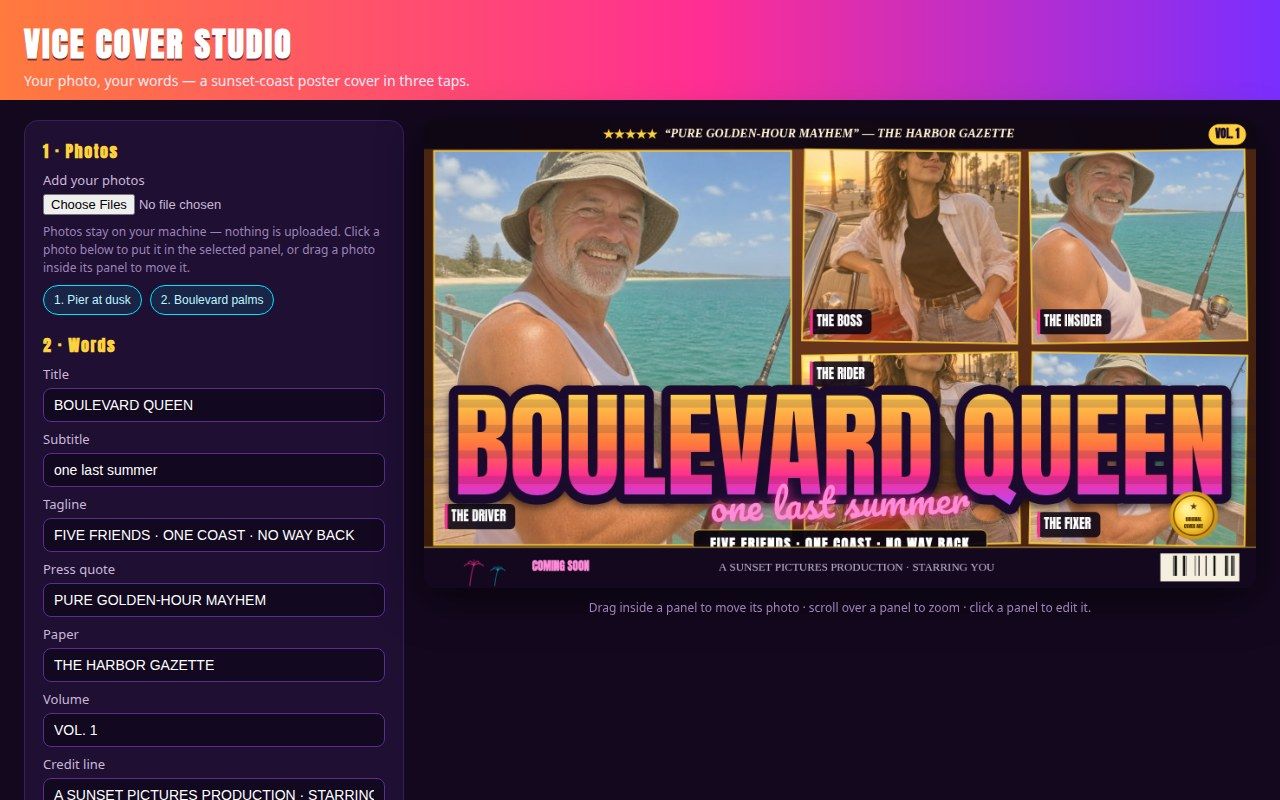
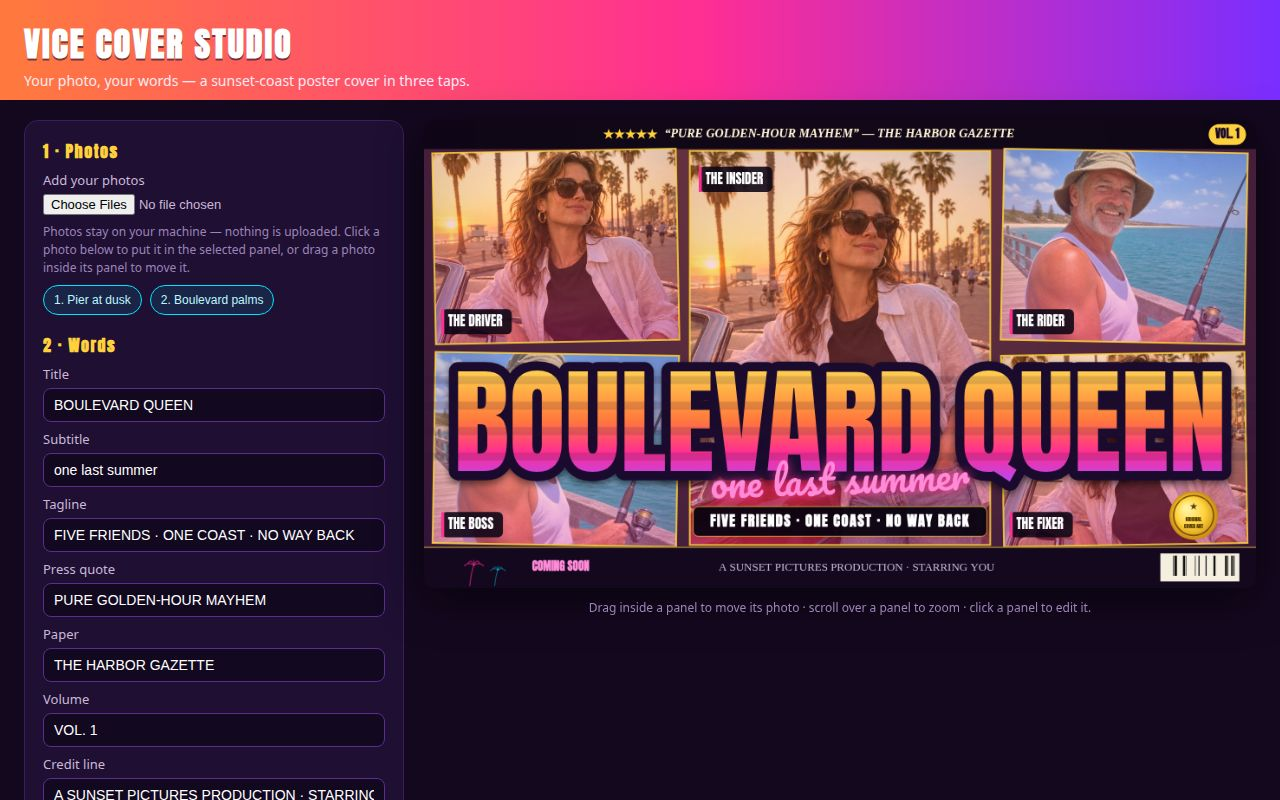
Vice Cover Studio v2 final patch: tagline lift, top-anchor framing, safe labels, poster-ink grade

Changed region(s): [[0.3125, 0.1562, 1.0, 0.6875]]

diff --git a/app/src/cover.js b/app/src/cover.js
@@ -13,26 +13,26 @@ export const SIZES = {
 export const GRADES = {
   sunset: {
     sky: '#2b1038',
-    tintTop: 'rgba(255,120,60,0.10)',
-    tintBottom: 'rgba(255,46,147,0.30)',
+    tintTop: 'rgba(255,120,60,0.13)',
+    tintBottom: 'rgba(255,46,147,0.34)',
     title: ['#FFE95C', '#FFB347', '#FF7A3D', '#FF2E93', '#B14BFF'],
   },
   neon: {
     sky: '#12082b',
-    tintTop: 'rgba(0,229,255,0.10)',
-    tintBottom: 'rgba(140,40,255,0.32)',
+    tintTop: 'rgba(0,229,255,0.13)',
+    tintBottom: 'rgba(140,40,255,0.35)',
     title: ['#8CFFF9', '#00E5FF', '#7A5CFF', '#FF2E93', '#FFD23D'],
   },
   golden: {
     sky: '#33170a',
-    tintTop: 'rgba(255,200,60,0.12)',
-    tintBottom: 'rgba(255,120,20,0.28)',
+    tintTop: 'rgba(255,200,60,0.14)',
+    tintBottom: 'rgba(255,120,20,0.32)',
     title: ['#FFF3A0', '#FFD23D', '#FF9A2E', '#FF5C1F', '#C2185B'],
   },
   violet: {
     sky: '#1c0b33',
-    tintTop: 'rgba(180,80,255,0.12)',
-    tintBottom: 'rgba(60,10,90,0.34)',
+    tintTop: 'rgba(180,80,255,0.14)',
+    tintBottom: 'rgba(60,10,90,0.37)',
     title: ['#FFD6FF', '#E08CFF', '#B14BFF', '#7A2EFF', '#FF2E93'],
   },
 };
@@ -124,7 +124,12 @@ export function drawPhotoInPanel(ctx, photo, rect, zoom, fx, fy) {
   const dh = ih * s;
   const ox = (rect.w - dw) * fx;
   const oy = (rect.h - dh) * fy;
+  // A mild poster-ink grade: a touch more saturation and contrast so the
+  // blue-sky and sunset photos read as one poster; mild enough that skin
+  // tones stay natural and faces stay clear.
+  try { ctx.filter = 'saturate(1.15) contrast(1.07) brightness(1.02)'; } catch (e) { /* older canvas: no filter */ }
   ctx.drawImage(photo, rect.x + ox, rect.y + oy, dw, dh);
+  try { ctx.filter = 'none'; } catch (e) { /* ignore */ }
 }
 
 /** A tiny palm silhouette: trunk plus five fronds, drawn at (x, y) with size s. */
@@ -292,6 +297,20 @@ export function drawCover(canvas, art, photos) {
   ctx.textAlign = 'center';
   ctx.fillText(vol, W - volW / 2 - W * 0.012, topH * 0.52);
 
+  // The tagline ribbon's rect, worked out up front: a panel label must not
+  // slide under it, so a bottom label that would intersect it is lifted to
+  // sit just above it instead.
+  const tagText = (art.tagline || '').trim().toUpperCase();
+  let tagRect = null;
+  if (tagText) {
+    const tSize = Math.max(11, W * 0.017);
+    ctx.font = `bold ${tSize}px Anton, sans-serif`;
+    try { ctx.letterSpacing = `${Math.max(1, W * 0.0015)}px`; } catch (e) { /* older canvas */ }
+    const tw = Math.min(W * 0.86, ctx.measureText(tagText).width + tSize * 2.4);
+    try { ctx.letterSpacing = '0px'; } catch (e) { /* ignore */ }
+    tagRect = { x: (W - tw) / 2, y: H * 0.826, w: tw, h: tSize * 2.1 };
+  }
+
   // Photo panels.
   rects.forEach((rect, i) => {
     const panel = art.panels[i] || {};
@@ -317,6 +336,14 @@ export function drawCover(canvas, art, photos) {
     tint.addColorStop(1, grade.tintBottom);
     ctx.fillStyle = tint;
     ctx.fillRect(0, 0, rect.w, rect.h);
+    // A faint vignette pulls the panels into one poster and deepens the ink;
+    // it is weakest at the centre, so faces (kept near the top by the focal
+    // anchor) are never darkened by it.
+    const vig = ctx.createRadialGradient(rect.w / 2, rect.h / 2, Math.min(rect.w, rect.h) * 0.35, rect.w / 2, rect.h / 2, Math.max(rect.w, rect.h) * 0.75);
+    vig.addColorStop(0, 'rgba(10,4,20,0)');
+    vig.addColorStop(1, 'rgba(10,4,20,0.14)');
+    ctx.fillStyle = vig;
+    ctx.fillRect(0, 0, rect.w, rect.h);
     ctx.restore();
     ctx.save();
     ctx.translate(rect.x + rect.w / 2, rect.y + rect.h / 2);
@@ -332,32 +359,63 @@ export function drawCover(canvas, art, photos) {
       ctx.font = `${lSize}px Anton, sans-serif`;
       const lw = ctx.measureText(label).width + lSize * 1.2;
       const lh = lSize * 1.9;
-      const lx = rect.x + rect.w * 0.03;
       // A bottom label under the centred title and subtitle would be hidden,
       // so a middle-column panel whose foot is in the title zone gets its
       // label at the top instead; side panels keep the bottom label.
       const centreX = rect.x + rect.w / 2;
       const inTitleZone = rect.y + rect.h > H * 0.62 && centreX > W * 0.25 && centreX < W * 0.75;
-      const ly = inTitleZone ? rect.y + rect.h * 0.04 : rect.y + rect.h - lh - rect.h * 0.04;
+      // A top label must never sit on the face: the face follows the panel's
+      // focal point, so the label goes in the opposite top corner (face on
+      // the left -> label top-right, face on the right -> label top-left).
+      const faceLeft = (panel.fx ?? 0.5) < 0.5;
+      let ly;
+      let lx;
+      let topRight = false;
+      if (inTitleZone) {
+        topRight = faceLeft;
+        ly = rect.y + rect.h * 0.04;
+        lx = topRight ? rect.x + rect.w - lw - rect.w * 0.03 : rect.x + rect.w * 0.03;
+      } else {
+        ly = rect.y + rect.h - lh - rect.h * 0.04;
+        lx = rect.x + rect.w * 0.03;
+        // A bottom label that would slide under the tagline ribbon (the tall
+        // hero panel of hero-right is the case) goes to the top in the
+        // face-opposite corner instead — lifting it would only push it into
+        // the script subtitle above the ribbon.
+        if (tagRect && lx < tagRect.x + tagRect.w && lx + lw > tagRect.x
+          && ly < tagRect.y + tagRect.h && ly + lh > tagRect.y) {
+          topRight = faceLeft;
+          ly = rect.y + rect.h * 0.04;
+          lx = topRight ? rect.x + rect.w - lw - rect.w * 0.03 : rect.x + rect.w * 0.03;
+        }
+      }
       ctx.fillStyle = 'rgba(10,4,20,0.88)';
       ctx.beginPath();
       ctx.roundRect(lx, ly, lw, lh, lh * 0.2);
       ctx.fill();
       ctx.fillStyle = '#FF2E93';
-      ctx.fillRect(lx, ly, lSize * 0.22, lh);
+      if (topRight) ctx.fillRect(lx + lw - lSize * 0.22, ly, lSize * 0.22, lh);
+      else ctx.fillRect(lx, ly, lSize * 0.22, lh);
       ctx.fillStyle = '#FFFFFF';
-      ctx.textAlign = 'left';
       ctx.textBaseline = 'middle';
-      ctx.fillText(label, lx + lSize * 0.5, ly + lh / 2 + 1);
+      if (topRight) {
+        ctx.textAlign = 'right';
+        ctx.fillText(label, lx + lw - lSize * 0.5, ly + lh / 2 + 1);
+      } else {
+        ctx.textAlign = 'left';
+        ctx.fillText(label, lx + lSize * 0.5, ly + lh / 2 + 1);
+      }
     }
   });
 
-  // The title, its script subtitle and the tagline ribbon.
-  const titleSize = drawTitle(ctx, art.title, W / 2, H * 0.8, W);
+  // The title, its script subtitle and the tagline ribbon. The whole block
+  // sits ~5% higher than the first draft so the tagline pill clears the
+  // credit strip with a clean gap at every export size.
+  const titleSize = drawTitle(ctx, art.title, W / 2, H * 0.75, W);
   const sub = (art.subtitle || '').trim();
   if (sub) {
     ctx.save();
-    ctx.translate(W / 2, H * 0.83);
+    ctx.translate(W / 2, H * 0.78);
     ctx.rotate(-0.035);
     ctx.font = `${Math.max(16, W * 0.046)}px Pacifico, cursive`;
     ctx.textAlign = 'center';
@@ -376,7 +434,7 @@ export function drawCover(canvas, art, photos) {
     const tw = Math.min(W * 0.86, ctx.measureText(tag).width + tSize * 2.4);
     const th = tSize * 2.1;
     const tx = (W - tw) / 2;
-    const ty = H * 0.876;
+    const ty = H * 0.826;
     ctx.fillStyle = 'rgba(8,3,16,0.94)';
     ctx.beginPath();
     ctx.roundRect(tx, ty, tw, th, th * 0.18);

diff --git a/app/src/main.js b/app/src/main.js
@@ -40,15 +40,27 @@ export function loadImage(url) {
   });
 }
 
-/** Fresh panel entries for a layout: photos cycle, crops vary per panel. */
+/** Focal defaults for one photo: both sample photos carry the face near the
+ *  top, so the anchor is the top (fy ~0.16) and fx follows the face — the
+ *  pier fisherman stands on the left, the boulevard woman on the right.
+ *  Uploads fall back to a centred top anchor. A modest zoom keeps the whole
+ *  head in frame instead of cropping it at the panel edge. */
+export function focusForPhoto(photoIdx) {
+  const name = (photos[photoIdx]?.name || '').toLowerCase();
+  if (name.startsWith('pier')) return { fx: 0.3, fy: 0.16, zoom: 1.05 };
+  if (name.startsWith('boulevard')) return { fx: 0.65, fy: 0.16, zoom: 1.05 };
+  return { fx: 0.5, fy: 0.16, zoom: 1.05 };
+}
+
+/** Fresh panel entries for a layout: photos cycle, each panel takes the focal
+ *  defaults of the photo it shows. */
 export function defaultPanels(layout) {
   const count = (LAYOUTS[layout] ?? LAYOUTS['hero-center']).panels.length;
-  const fx = [0.3, 0.5, 0.7, 0.5, 0.35, 0.65];
-  const fy = [0.4, 0.55, 0.35, 0.6, 0.45, 0.5];
-  const zoom = [1.15, 1.0, 1.25, 1.1, 1.0, 1.2];
   const out = [];
   for (let i = 0; i < count; i++) {
-    out.push({ photo: i % Math.max(1, photos.length), zoom: zoom[i % 6], fx: fx[i % 6], fy: fy[i % 6], label: PANEL_LABELS[i] });
+    const photo = i % Math.max(1, photos.length);
+    const f = focusForPhoto(photo);
+    out.push({ photo, zoom: f.zoom, fx: f.fx, fy: f.fy, label: PANEL_LABELS[i] });
   }
   return out;
 }
@@ -259,7 +271,11 @@ if (shot) {
       // ?photo= picks which sample leads the collage; panels cycle from it.
       const pick = (q.get('photo') || '').toLowerCase();
       const start = photos.findIndex((p) => p.name.toLowerCase().startsWith(pick));
-      if (start > 0) panels.forEach((p, i) => { p.photo = (start + i) % photos.length; });
+      if (start > 0) panels.forEach((p, i) => {
+        p.photo = (start + i) % photos.length;
+        const f = focusForPhoto(p.photo);
+        p.fx = f.fx; p.fy = f.fy; p.zoom = f.zoom;
+      });
       return {
         ...art,
         title: q.get('title') || art.title,
@@ -278,12 +294,16 @@ if (shot) {
     editorScene: async (q) => {
       const pick = q.get('photo') || 'pier';
       const hit = photos.findIndex((p) => p.name.toLowerCase().startsWith(pick));
-      if (hit >= 0) {
-        art.panels.forEach((p, i) => { p.photo = (hit + i) % photos.length; });
-      }
       if (q.get('title')) { art.title = q.get('title'); document.getElementById('title').value = art.title; }
       if (q.get('layout')) { art.layout = q.get('layout'); art.panels = defaultPanels(art.layout); }
       if (q.get('grade')) { art.grade = q.get('grade'); }
+      if (hit >= 0) {
+        art.panels.forEach((p, i) => {
+          p.photo = (hit + i) % photos.length;
+          const f = focusForPhoto(p.photo);
+          p.fx = f.fx; p.fy = f.fy; p.zoom = f.zoom;
+        });
+      }
     },
     redraw,
   });

diff --git a/README.md b/README.md
@@ -42,9 +42,13 @@ Or open `app/index.html` from any static server. Pick a layout and a grade, type
 
 - 0 console errors, 0 page errors, 0 network requests (fully offline).
 - Playtest: retitle, switch layout + grade + size, export all three sizes — PNGs are exactly 1920×1080, 1080×1080 and 1080×1350.
-- Determinism: the same cover drawn twice is pixel-identical, and `main.ts` run 4× writes a byte-identical `dossier.json`.
-- Dossier: 1,219,439 bytes total (text capped at 163,840), 4 screenshots, each under 256 KiB.
+- Determinism: the same cover drawn twice is pixel-identical, and `main.ts` run 4× writes a byte-identical `dossier.json` (sha256 `a0d0f85b…`).
+- Dossier: 958,121 bytes total (text capped at 163,840), 4 screenshots, each under 256 KiB.
 - `makefun check`: 4 passed / 0 failed, 17 skipped (transcript checks run on the sealed recordings at submission); the 5 at-submission items need the commit pushed to the public GitHub repo first.
+
+## Final visual patch (20 Nov 2026)
+
+Five small fixes, no architecture change: (1) the title + subtitle + tagline block moved ~5% higher so the tagline pill clears the credit strip with a clean gap at all three export sizes; (2) panel crops now anchor to the top (fy ~0.16) with the focal x following the face (pier's fisherman left, boulevard's woman right), so heads and eyes are never cropped at the top or side; (3) a panel label that would sit on a face goes to the opposite top corner, and a bottom label that would slide under the tagline ribbon moves to the top instead; (4) a mild poster-ink grade (`saturate(1.15) contrast(1.07)`, a slightly stronger grade tint, a faint vignette) unifies the blue-sky and sunset photos into one poster while skin tones stay natural; (5) this README updated in the same session.
 
 ## License
 
